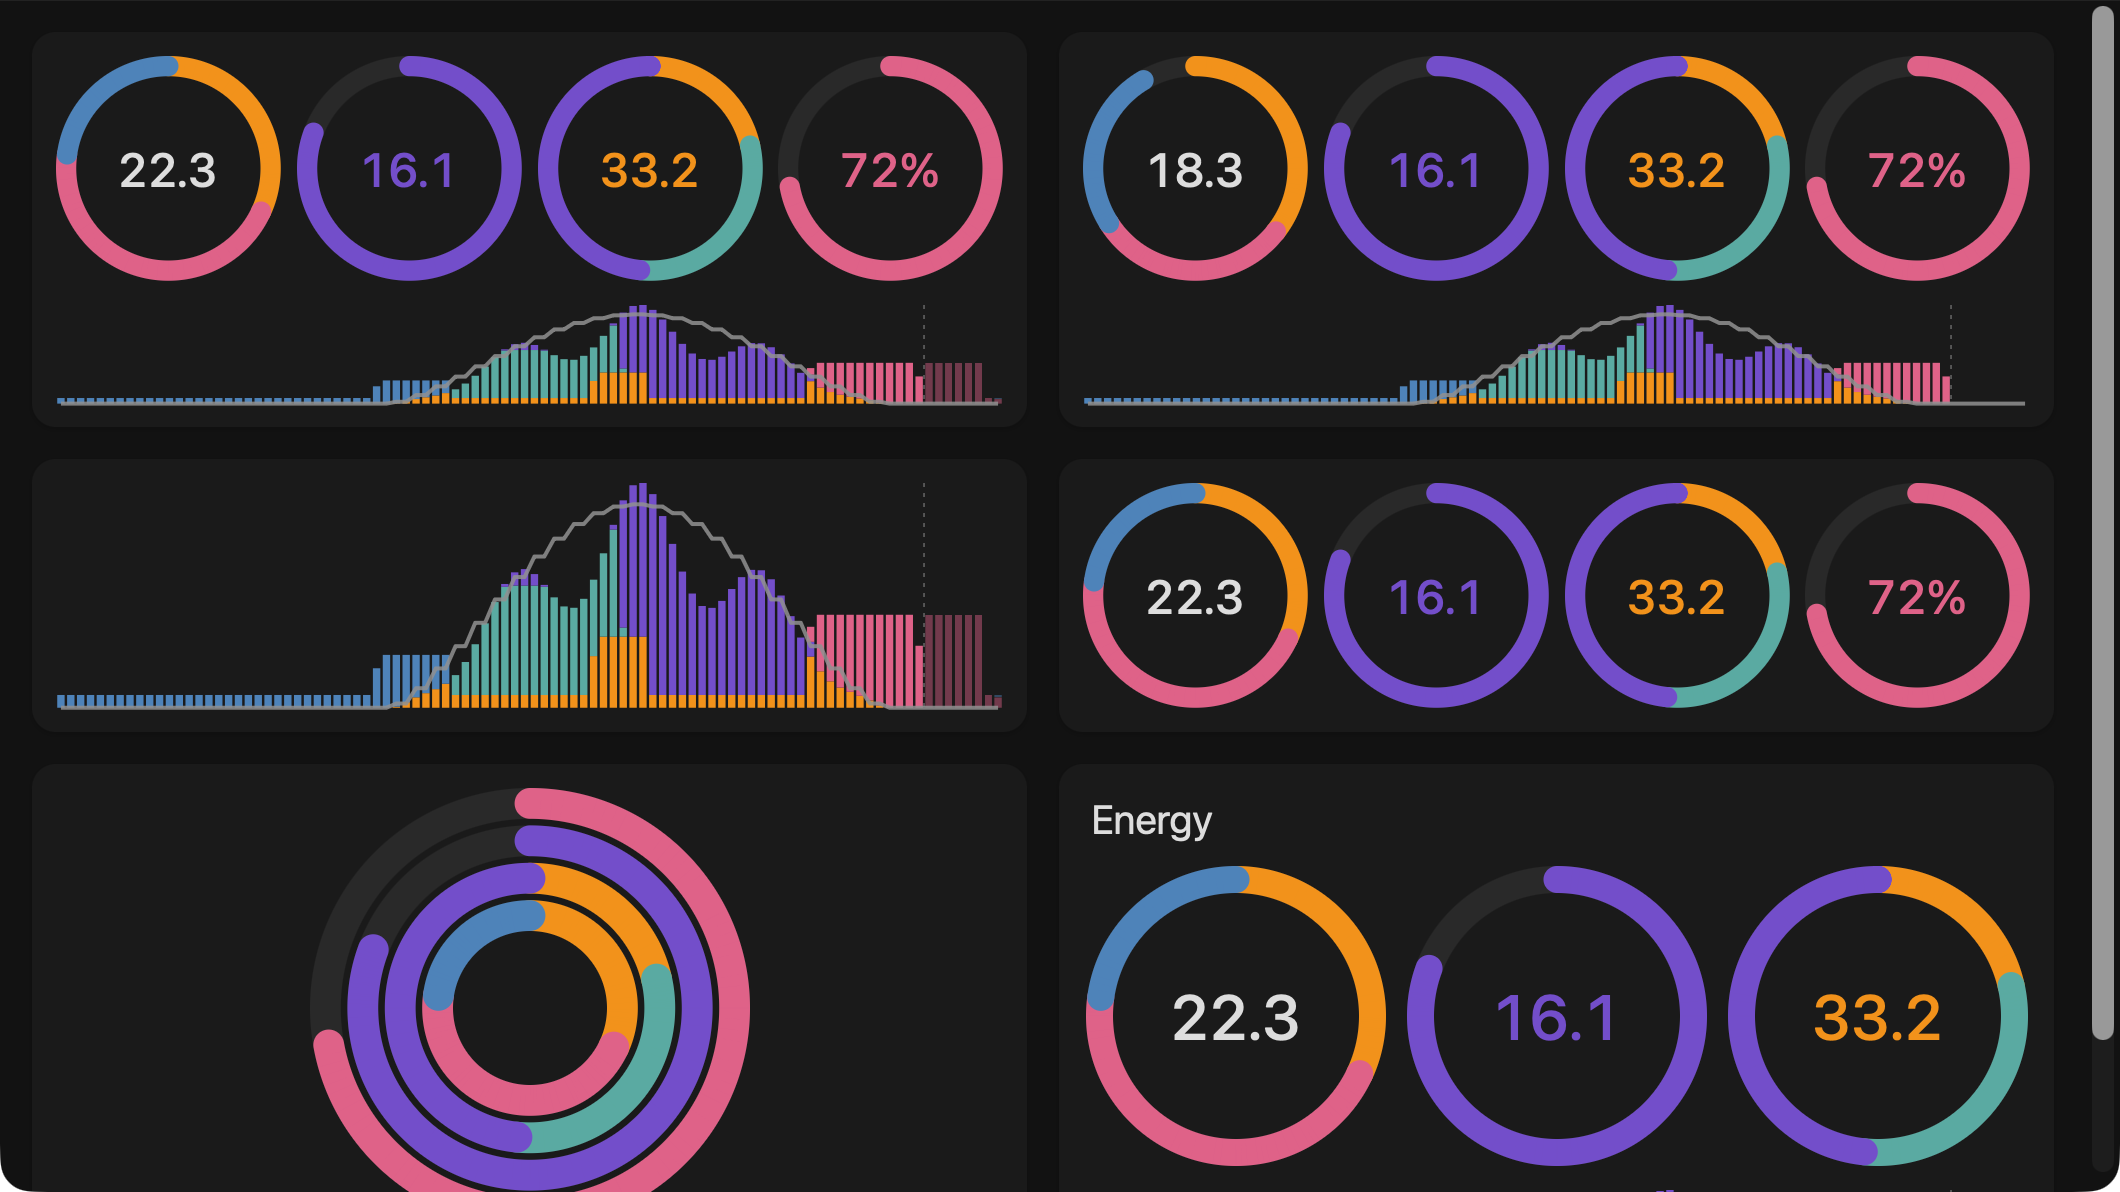
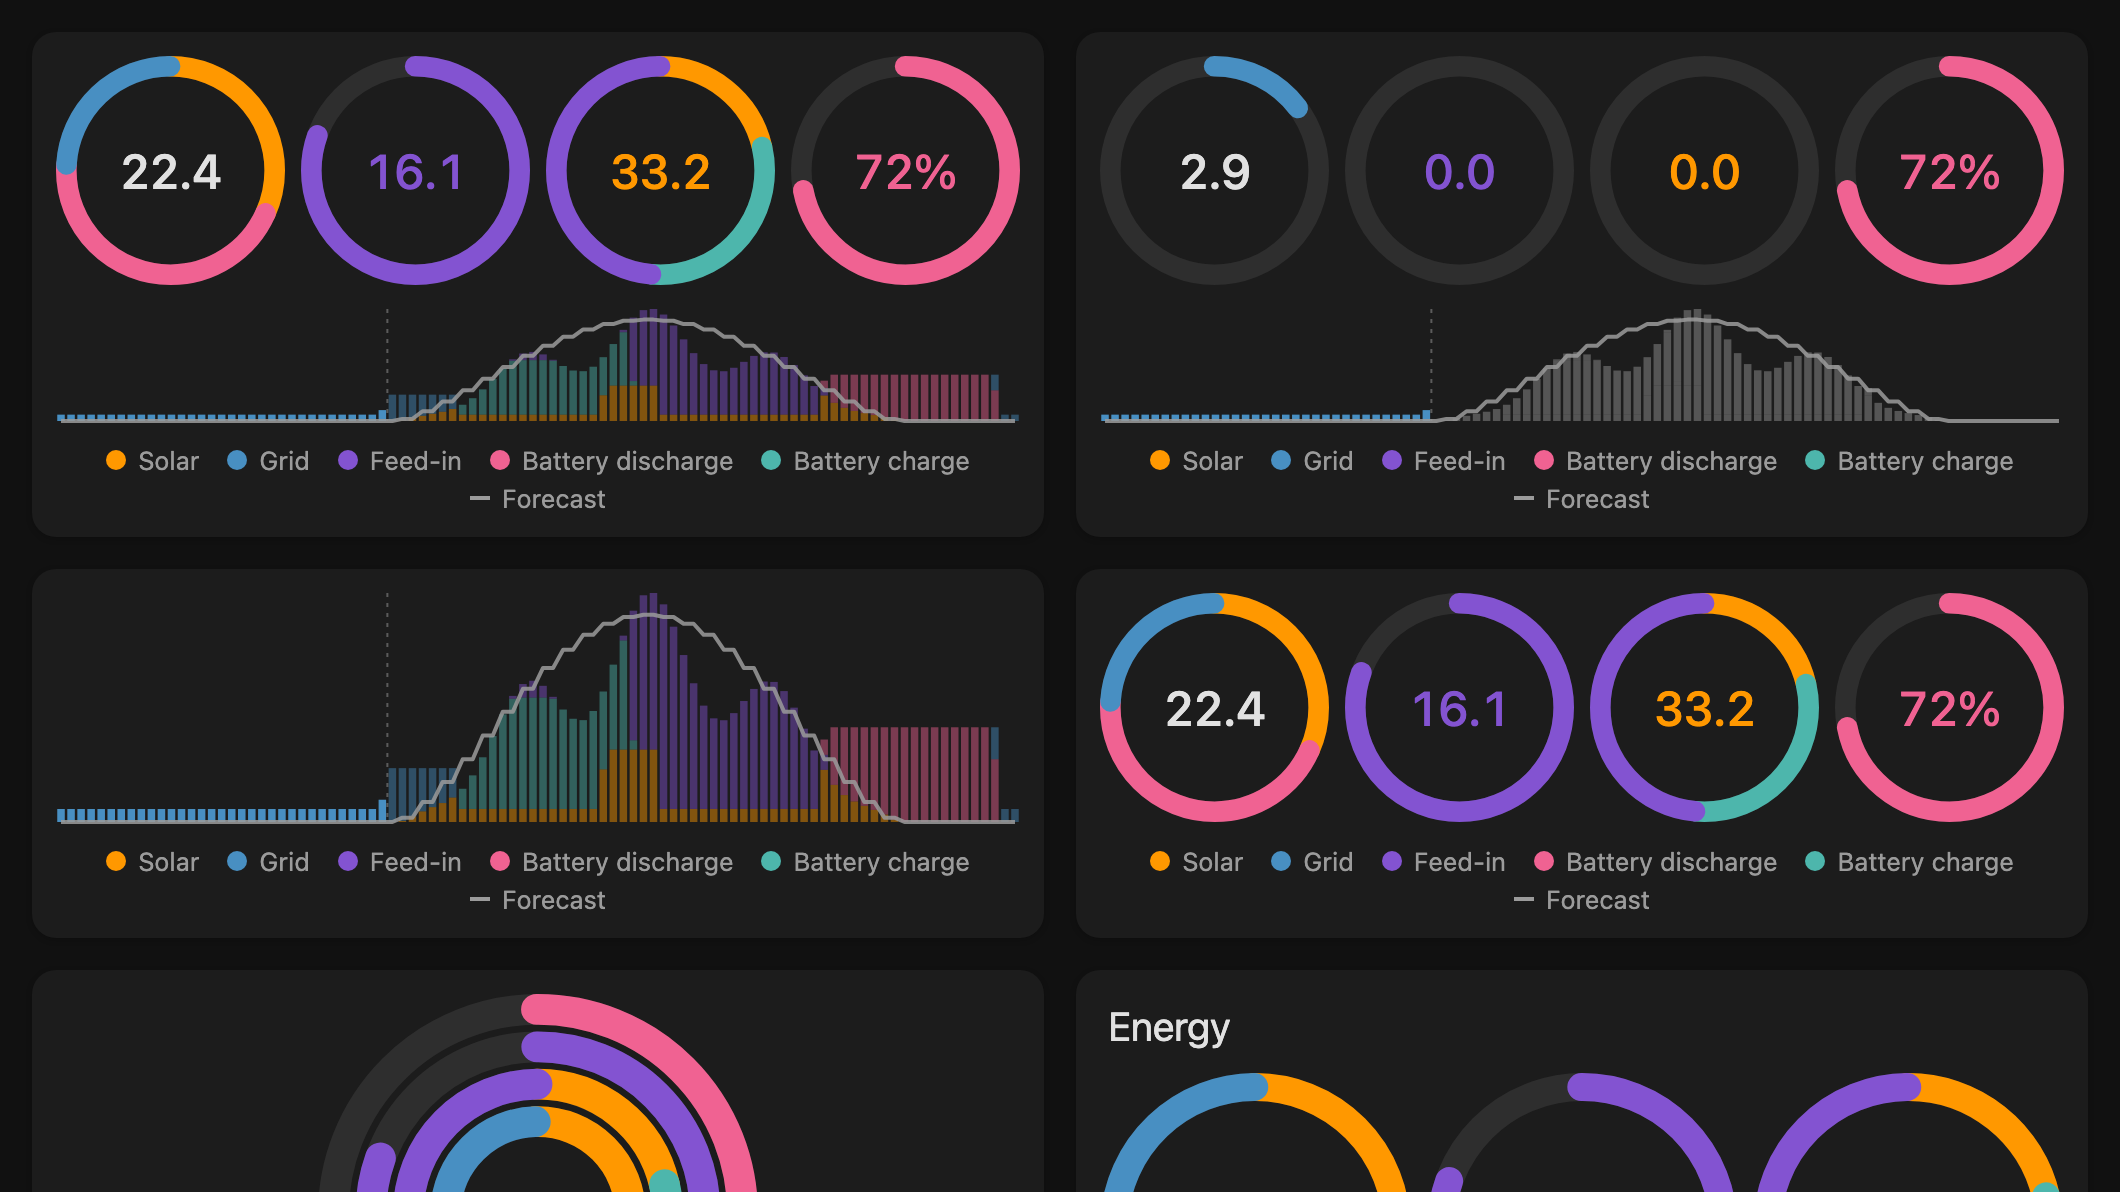
feat: show a color legend below the card
The colors alone do not say which one is solar, grid, feed-in or
battery. A legend names the channels that are actually drawn, plus the
forecast line. It is on by default and can be turned off with
`legend: false` or in the visual editor. The README screenshots show it.

diff --git a/src/ha-energy-widget.ts b/src/ha-energy-widget.ts
@@ -13,10 +13,10 @@ import {
 import { type Key, localize } from "./localize";
 import { totalsFrom } from "./model";
 import { cardStyles } from "./styles";
-import { nestedRingsTemplate, ringTemplate, timelineTemplate } from "./templates";
+import { legendTemplate, nestedRingsTemplate, ringTemplate, timelineTemplate } from "./templates";
 import { PART_MS } from "./time";
 import type { HomeAssistant } from "./types";
-import { buildRings, buildTimelineView } from "./view";
+import { buildLegend, buildRings, buildTimelineView } from "./view";
 
 declare const __VERSION__: string;
 const VERSION = __VERSION__;
@@ -204,6 +204,17 @@ export class HaEnergyWidget extends LitElement {
   }
 
   private body(config: ResolvedConfig): TemplateResult {
+    const content = this.layoutBody(config);
+    const snapshot = this.snapshot;
+    if (!config.legend || !snapshot) return content;
+    const items = buildLegend(snapshot.series, config, snapshot.forecast !== undefined);
+    return html`${content}${legendTemplate(
+      items,
+      items.map((item) => this.t(item.id)),
+    )}`;
+  }
+
+  private layoutBody(config: ResolvedConfig): TemplateResult {
     if (this.status === "empty") return html`<div class="message">${this.t("no_sources")}</div>`;
     const snapshot = this.snapshot;
     if (!snapshot) {

diff --git a/src/view.ts b/src/view.ts
@@ -1,5 +1,5 @@
 /** Turns the model into what is drawn: ring specs and timeline geometry. Pure, no DOM. */
-import type { ResolvedConfig } from "./config";
+import type { Channel, ResolvedConfig } from "./config";
 import { buildTimeline, type Series, TIMELINE_ROLES, type Timeline, totalsFrom } from "./model";
 
 export interface RingSegment {
@@ -81,6 +81,24 @@ export function buildRings(
     });
   }
   return rings;
+}
+
+export interface LegendItem {
+  /** Also the localization key of the label. */
+  id: Channel | "forecast";
+  color: string;
+  /** The forecast is a line, everything else a filled swatch. */
+  line: boolean;
+}
+
+/** Colors that are actually drawn: only configured channels, and the forecast only when it has data. */
+export function buildLegend(series: Series, config: ResolvedConfig, hasForecast: boolean): LegendItem[] {
+  const order: Channel[] = ["solar", "grid_import", "grid_export", "battery_discharge", "battery_charge"];
+  const items: LegendItem[] = order
+    .filter((channel) => series.configured[channel])
+    .map((id) => ({ id, color: config.colors[id], line: false }));
+  if (hasForecast) items.push({ id: "forecast", color: "var(--secondary-text-color, gray)", line: true });
+  return items;
 }
 
 export interface Bar {

diff --git a/src/config.ts b/src/config.ts
@@ -34,6 +34,8 @@ export interface CardConfig {
   entities?: Partial<Record<Channel, EntityList>> & { battery_level?: string };
   /** Draw the solar forecast of the Energy dashboard as a line (default true). */
   forecast?: boolean;
+  /** Show a legend naming the colors of solar, battery, grid and feed-in (default true). */
+  legend?: boolean;
   /** Ring and timeline scale in kWh; values above the maximum grow the scale, they are never clipped. */
   max?: { consumption?: number; production?: number; feed?: number; interval?: number };
   /** Any CSS color, e.g. `#ffd60a` or `var(--energy-solar-color)`. */
@@ -71,6 +73,7 @@ export interface ResolvedConfig {
   entities: Partial<Record<Channel, string[]>>;
   batteryLevel?: string;
   forecast: boolean;
+  legend: boolean;
   max: typeof DEFAULT_MAX;
   colors: Record<ColorRole, string>;
   tapAction: ActionConfig;
@@ -109,6 +112,7 @@ export function resolveConfig(raw: CardConfig): ResolvedConfig {
     entities,
     batteryLevel: raw.entities?.battery_level || undefined,
     forecast: raw.forecast !== false,
+    legend: raw.legend !== false,
     max: {
       consumption: positive(raw.max?.consumption, DEFAULT_MAX.consumption),
       production: positive(raw.max?.production, DEFAULT_MAX.production),

diff --git a/test/view.test.ts b/test/view.test.ts
@@ -1,0 +1,22 @@
+import { describe, expect, it } from "vitest";
+import { resolveConfig } from "../src/config";
+import { createSeries } from "../src/model";
+import { buildLegend } from "../src/view";
+
+const config = resolveConfig({ type: "custom:ha-energy-widget", colors: { solar: "#ffd60a" } });
+
+describe("buildLegend", () => {
+  it("lists only configured channels, with the configured colors", () => {
+    const series = createSeries(Date.now(), { solar: true, grid_import: true, grid_export: true });
+    const items = buildLegend(series, config, false);
+    expect(items.map((i) => i.id)).toEqual(["solar", "grid_import", "grid_export"]);
+    expect(items[0]?.color).toBe("#ffd60a");
+  });
+
+  it("adds both battery directions and the forecast line when present", () => {
+    const series = createSeries(Date.now(), { solar: true, battery_charge: true, battery_discharge: true });
+    const items = buildLegend(series, config, true);
+    expect(items.map((i) => i.id)).toEqual(["solar", "battery_discharge", "battery_charge", "forecast"]);
+    expect(items.at(-1)?.line).toBe(true);
+  });
+});

diff --git a/src/localize.ts b/src/localize.ts
@@ -14,10 +14,11 @@ const en = {
   time_range: "Time range",
   title: "Title",
   forecast_line: "Show solar forecast",
+  show_legend: "Show legend",
   entities: "Energy sources (empty = Energy dashboard)",
-  solar: "Solar production",
-  grid_import: "Grid import",
-  grid_export: "Grid export",
+  solar: "Solar",
+  grid_import: "Grid",
+  grid_export: "Feed-in",
   battery_charge: "Battery charge",
   battery_discharge: "Battery discharge",
   battery_level: "Battery level",
@@ -53,10 +54,11 @@ const de: Record<Key, string> = {
   time_range: "Zeitraum",
   title: "Titel",
   forecast_line: "Solarprognose anzeigen",
+  show_legend: "Legende anzeigen",
   entities: "Energiequellen (leer = Energie-Dashboard)",
-  solar: "Solarerzeugung",
-  grid_import: "Netzbezug",
-  grid_export: "Netzeinspeisung",
+  solar: "Solar",
+  grid_import: "Netz",
+  grid_export: "Einspeisung",
   battery_charge: "Batterie laden",
   battery_discharge: "Batterie entladen",
   battery_level: "Batteriestand",

diff --git a/src/templates.ts b/src/templates.ts
@@ -1,5 +1,5 @@
 import { html, nothing, svg } from "lit";
-import type { RingSpec, TimelineView } from "./view";
+import type { LegendItem, RingSpec, TimelineView } from "./view";
 import { COLUMN, HEIGHT } from "./view";
 
 const CENTER = 50;
@@ -55,4 +55,14 @@ export function timelineTemplate(view: TimelineView, label: string) {
       ${view.nowX > 0 && view.nowX < COLUMN * 96 ? svg`<line class="now" x1=${view.nowX} x2=${view.nowX} y1="0" y2=${HEIGHT}></line>` : nothing}
     </svg>
   </div>`;
+}
+
+export function legendTemplate(items: LegendItem[], labels: string[]) {
+  if (items.length === 0) return nothing;
+  return html`<ul class="legend">
+    ${items.map(
+      (item, i) =>
+        html`<li><span class=${item.line ? "swatch line" : "swatch"} style="--swatch:${item.color}"></span>${labels[i]}</li>`,
+    )}
+  </ul>`;
 }

diff --git a/test/config.test.ts b/test/config.test.ts
@@ -8,6 +8,7 @@ describe("resolveConfig", () => {
     expect(c.layout).toBe("rings_timeline");
     expect(c.timeRange).toBe("last_24h");
     expect(c.forecast).toBe(true);
+    expect(c.legend).toBe(true);
     expect(c.max).toEqual(DEFAULT_MAX);
     expect(c.tapAction.action).toBe("navigate");
   });
@@ -20,6 +21,7 @@ describe("resolveConfig", () => {
       max: { consumption: -1, feed: 30 },
       colors: { solar: " #ffd60a " },
       forecast: false,
+      legend: false,
     });
     expect(c.layout).toBe("rings_timeline");
     expect(c.timeRange).toBe("today");
@@ -27,6 +29,7 @@ describe("resolveConfig", () => {
     expect(c.max.feed).toBe(30);
     expect(c.colors.solar).toBe("#ffd60a");
     expect(c.forecast).toBe(false);
+    expect(c.legend).toBe(false);
   });
 
   it("normalizes entity lists", () => {

diff --git a/src/styles.ts b/src/styles.ts
@@ -83,8 +83,35 @@ export const cardStyles = css`
     flex: 0 0 auto;
   }
   /* Rings only: center them in a tall card instead of leaving the space below. */
-  .rings:last-child {
+  .rings {
     margin-block: auto;
+  }
+  .legend {
+    flex: 0 0 auto;
+    display: flex;
+    flex-wrap: wrap;
+    justify-content: center;
+    gap: 4px 14px;
+    margin: 0;
+    padding: 0 4px;
+    list-style: none;
+    font-size: 0.8rem;
+    color: var(--secondary-text-color);
+  }
+  .legend li {
+    display: flex;
+    align-items: center;
+    gap: 6px;
+  }
+  .swatch {
+    width: 10px;
+    height: 10px;
+    border-radius: 50%;
+    background: var(--swatch);
+  }
+  .swatch.line {
+    height: 2px;
+    border-radius: 0;
   }
   .forecast {
     fill: none;

diff --git a/src/editor.ts b/src/editor.ts
@@ -95,6 +95,7 @@ export class HaEnergyWidgetEditor extends LitElement {
         ],
       },
       { name: "forecast", selector: { boolean: {} } },
+      { name: "legend", selector: { boolean: {} } },
       {
         type: "expandable",
         name: "entities",
@@ -130,6 +131,7 @@ export class HaEnergyWidgetEditor extends LitElement {
       layout: "layout",
       time_range: "time_range",
       forecast: "forecast_line",
+      legend: "show_legend",
       tap_action: "tap_action",
       solar: "solar",
       grid_import: "grid_import",

diff --git a/README.md b/README.md
@@ -54,6 +54,7 @@ battery level; add it under `entities.battery_level`.
 | `time_range` | `last_24h` | `last_24h` or `today`; see below |
 | `title` | none | Card title |
 | `forecast` | `true` | Draw the solar forecast of the Energy dashboard as a gray line |
+| `legend` | `true` | Show a legend with the colors of solar, battery, grid and feed-in below the card |
 | `entities` | Energy dashboard | Energy meters per channel, see below |
 | `max` | see below | Scale of the rings and the timeline in kWh |
 | `colors` | Energy dashboard colors | Any CSS color per role |
